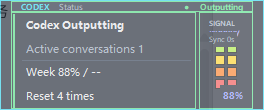
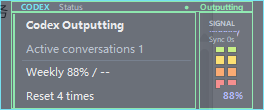
polish: clarify weekly quota label

Changed region(s): [[0.1818, 0.6, 0.4242, 0.7091]]

diff --git a/tests/test_status_snapshot_api.py b/tests/test_status_snapshot_api.py
@@ -69,7 +69,7 @@ class StatusSnapshotTests(unittest.TestCase):
             {"rateLimits": {"primary": {}, "secondary": {"usedPercent": 45, "resetsAt": reset}}},
         )
         self.assertEqual(result["rows"]["primary_5h"], "5h -- / --")
-        self.assertTrue(result["rows"]["weekly"].startswith("周 55% /"))
+        self.assertTrue(result["rows"]["weekly"].startswith("每周 55% /"))
         self.assertEqual(result["battery"]["remaining_percent"], 55)
 
     def test_weekly_battery_never_falls_back_to_available_5h(self):
@@ -194,8 +194,8 @@ class StatusSnapshotTests(unittest.TestCase):
         self.assertEqual(chinese["rows"]["activity"], "Codex 空闲")
         self.assertEqual(english["rows"]["progress"], "Quota unavailable")
         self.assertEqual(chinese["rows"]["progress"], "额度暂不可用")
-        self.assertTrue(english["rows"]["weekly"].startswith("Week 55% /"))
-        self.assertTrue(chinese["rows"]["weekly"].startswith("周 55% /"))
+        self.assertTrue(english["rows"]["weekly"].startswith("Weekly 55% /"))
+        self.assertTrue(chinese["rows"]["weekly"].startswith("每周 55% /"))
         self.assertTrue(english["rows"]["reset_credit"].startswith("Reset 5 times"))
         self.assertTrue(chinese["rows"]["reset_credit"].startswith("重置 5 次"))
         self.assertEqual(tuple(english["rows"]), ROW_IDS)

diff --git a/scripts/api/localization_api.py b/scripts/api/localization_api.py
@@ -26,7 +26,7 @@ _TEXT = {
         "session_directory_unreadable": "Session directory unavailable",
         "activity": "Codex {detail}",
         "quota_unavailable": "Quota unavailable",
-        "week": "Week",
+        "week": "Weekly",
         "reset_credit": "Reset {count} times",
         "stale": "(quota stale)",
         "tray_error": "Tray icon error",
@@ -86,7 +86,7 @@ _TEXT = {
         "session_directory_unreadable": "会话目录不可读",
         "activity": "Codex {detail}",
         "quota_unavailable": "额度暂不可用",
-        "week": "周",
+        "week": "每周",
         "reset_credit": "重置 {count} 次",
         "stale": "（额度过期）",
         "tray_error": "托盘图标异常",

diff --git a/tests/test_application_controllers.py b/tests/test_application_controllers.py
@@ -71,7 +71,7 @@ class ApplicationControllerTests(unittest.TestCase):
             "ok", "#ffffff", language="en",
         )
         self.assertEqual(snapshot["rows"]["activity"], "Codex Idle")
-        self.assertTrue(snapshot["rows"]["weekly"].startswith("Week 55% /"))
+        self.assertTrue(snapshot["rows"]["weekly"].startswith("Weekly 55% /"))
         self.assertEqual(snapshot["battery"]["remaining_percent"], 55)
 
     def test_presentation_controller_never_decides_manual_compact_state(self):

diff --git a/tests/test_ui_menu.py b/tests/test_ui_menu.py
@@ -224,7 +224,7 @@ class MenuInteractionTests(unittest.TestCase):
             app.latest_quota = {"rateLimits": {"primary": {}, "secondary": {"usedPercent": 45}}}
             app.render_status()
             self.assertEqual(app.text.row_values()["activity"], "Codex Idle")
-            self.assertTrue(app.text.row_values()["weekly"].startswith("Week 55% /"))
+            self.assertTrue(app.text.row_values()["weekly"].startswith("Weekly 55% /"))
         finally:
             self.destroy_app(app)
 